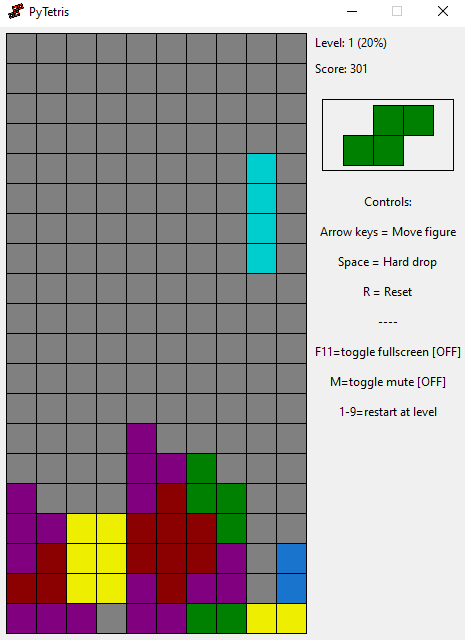
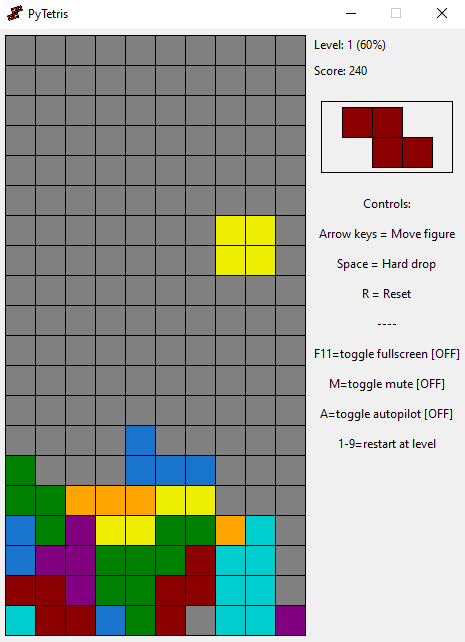
added new preview and updated readme.md

diff --git a/README.MD b/README.MD
@@ -5,6 +5,8 @@ Run with:
 
 _with each new level (everytime you break 10 lines) the background soundtrack gets faster to keep you in the beat!_
 
+* pressing 'A' will toggle autopilot mode (AI will take control)
+
 Preview:
 
 ![](preview.png)
@@ -12,8 +14,7 @@ Preview:
 Idea flow:
 1. Implement tetris rules ✔
 2. Make it playable as human ✔
-
-# WORK IN PROGRESS
-
-3. Make a heuristic AI playing it
+3. Make a heuristic AI playing it ✔
+# IF I HAVE TIME IN THE FUTURE:
 4. Try to create machine learning AI to play it.
+    * learning heuristic parameters for best fitness function.
